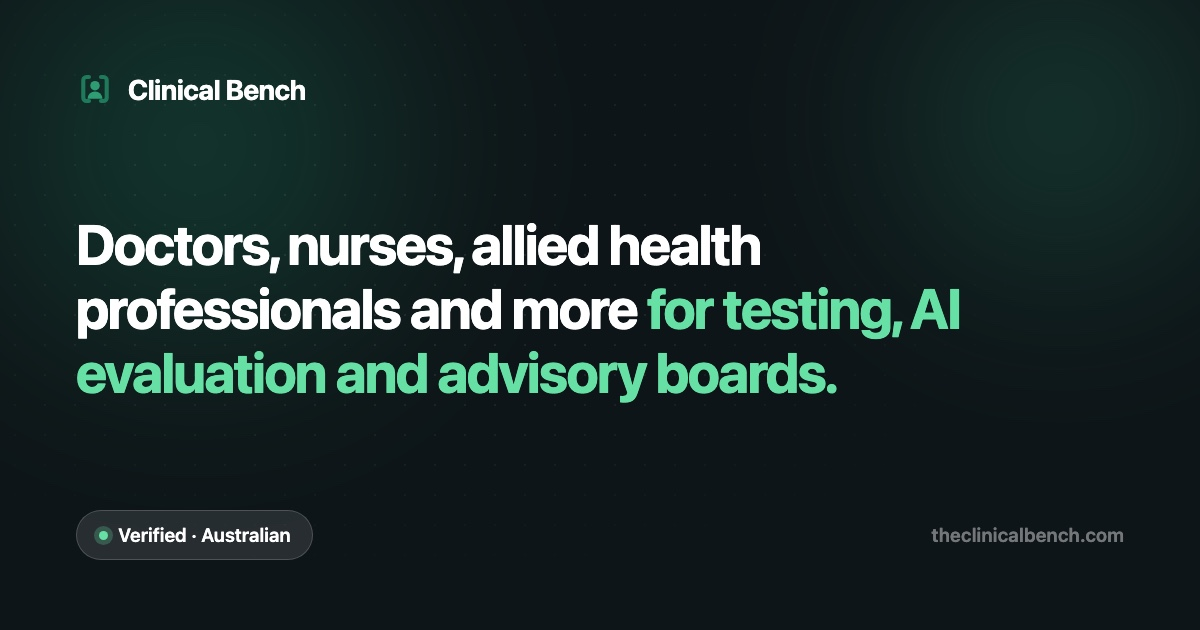
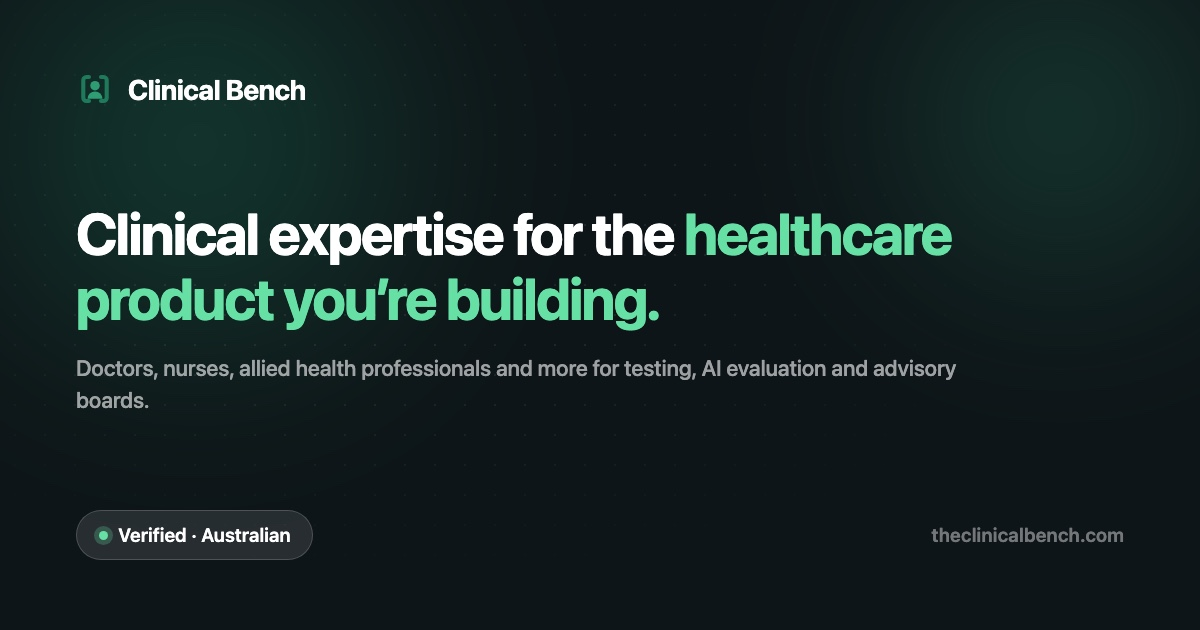
Combine title + subtitle on share card as intended, not one merged headline

Changed region(s): [[0.0617, 0.3317, 0.8017, 0.6635]]

diff --git a/clinicians/index.html b/clinicians/index.html
@@ -15,7 +15,7 @@
 <meta property="og:title" content="For clinicians | Clinical Bench">
 <meta property="og:description" content="Paid commercial work for Australian doctors, nurses and allied health professionals. Remote, flexible, on your terms.">
 <meta property="og:url" content="https://theclinicalbench.com/clinicians/">
-<meta property="og:image" content="https://theclinicalbench.com/assets/img/og.jpg?v=5">
+<meta property="og:image" content="https://theclinicalbench.com/assets/img/og.jpg?v=6">
 <meta name="twitter:card" content="summary_large_image">
 <link rel="preload" href="/assets/fonts/onest-latin-600-normal.woff2" as="font" type="font/woff2" crossorigin>
 <link rel="preload" href="/assets/fonts/onest-latin-700-normal.woff2" as="font" type="font/woff2" crossorigin>

diff --git a/index.html b/index.html
@@ -15,7 +15,7 @@
 <meta property="og:title" content="Clinical Bench · credentialled clinicians, on demand">
 <meta property="og:description" content="On-demand access to doctors, nurses and allied health for teams building healthcare products.">
 <meta property="og:url" content="https://theclinicalbench.com/">
-<meta property="og:image" content="https://theclinicalbench.com/assets/img/og.jpg?v=5">
+<meta property="og:image" content="https://theclinicalbench.com/assets/img/og.jpg?v=6">
 <meta property="og:image:width" content="1200">
 <meta property="og:image:height" content="630">
 <meta name="twitter:card" content="summary_large_image">
